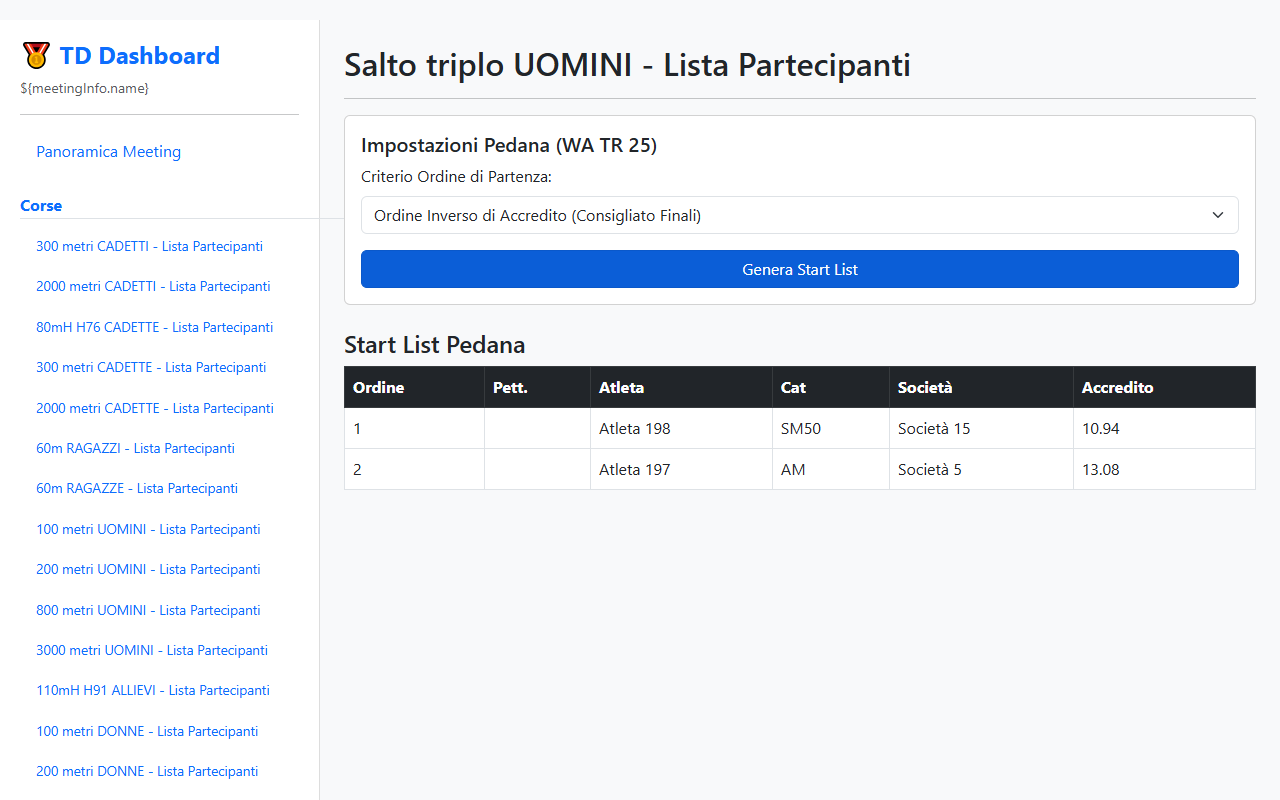
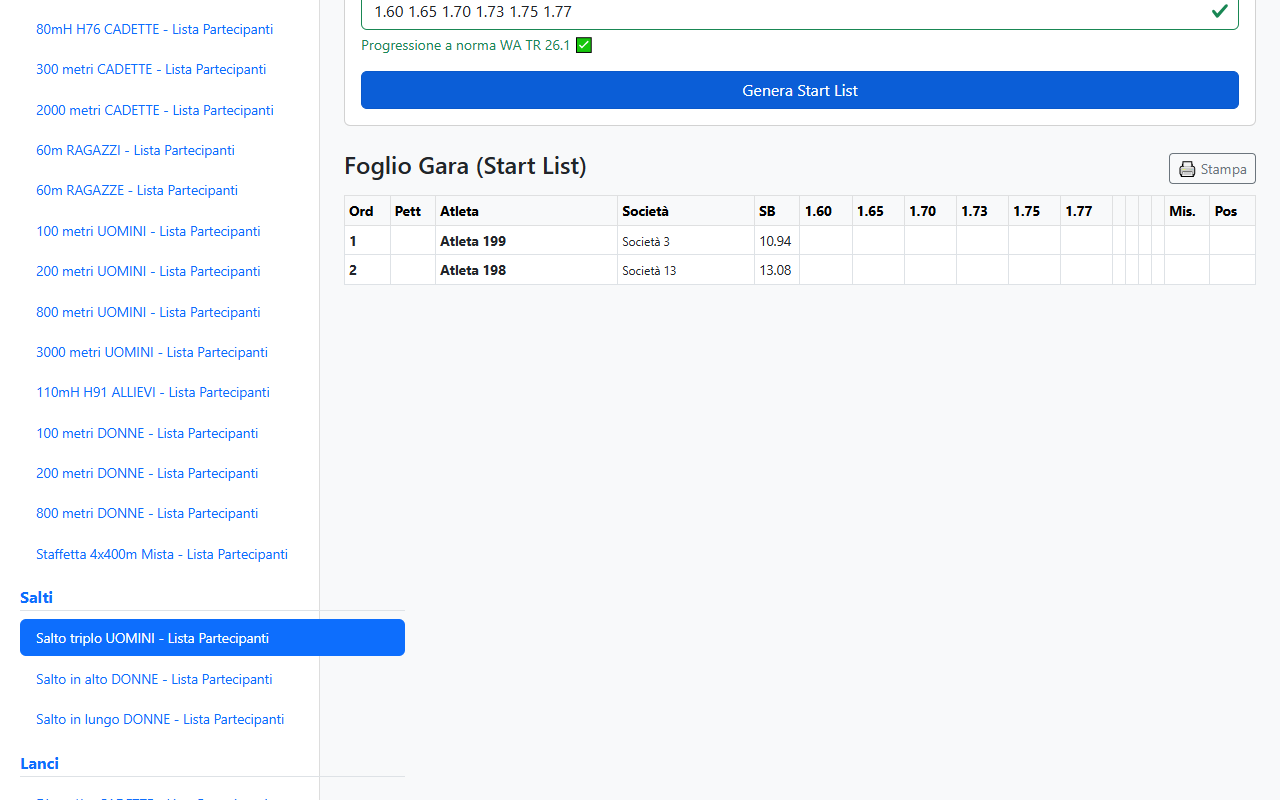
Update screenshots to showcase duration and progression features

diff --git a/generate_screenshots.js b/generate_screenshots.js
@@ -45,7 +45,7 @@ const fs = require('fs');
     const buttons = await page.$$('.nav-link');
     for (let btn of buttons) {
         const text = await btn.innerText();
-        if (text.toLowerCase().includes('metri') || text.toLowerCase().includes('corsa')) {
+        if (text.toLowerCase().includes('800') || text.toLowerCase().includes('1500')) {
             await btn.click();
             await page.waitForTimeout(1000);
             const genBtn = await page.$('button:has-text("Genera")');
@@ -60,9 +60,18 @@ const fs = require('fs');
     console.log('Taking field screenshot...');
     for (let btn of buttons) {
         const text = await btn.innerText();
-        if (text.toLowerCase().includes('salto') || text.toLowerCase().includes('lungo') || text.toLowerCase().includes('peso') || text.toLowerCase().includes('disco')) {
+        if (text.toLowerCase().includes('alto') || text.toLowerCase().includes('asta')) {
             await btn.click();
             await page.waitForTimeout(1000);
+            
+            // Fill progression
+            const progInput = await page.$('input[placeholder*="Es. 1.80"]');
+            if (progInput) {
+                await progInput.fill('1.60 1.65 1.70 1.73 1.75 1.77');
+                await progInput.press('Enter');
+                await page.waitForTimeout(500); // Wait for validation feedback
+            }
+            
             const genBtn = await page.$('button:has-text("Genera")');
             if(genBtn) await genBtn.click();
             await page.waitForTimeout(500);
